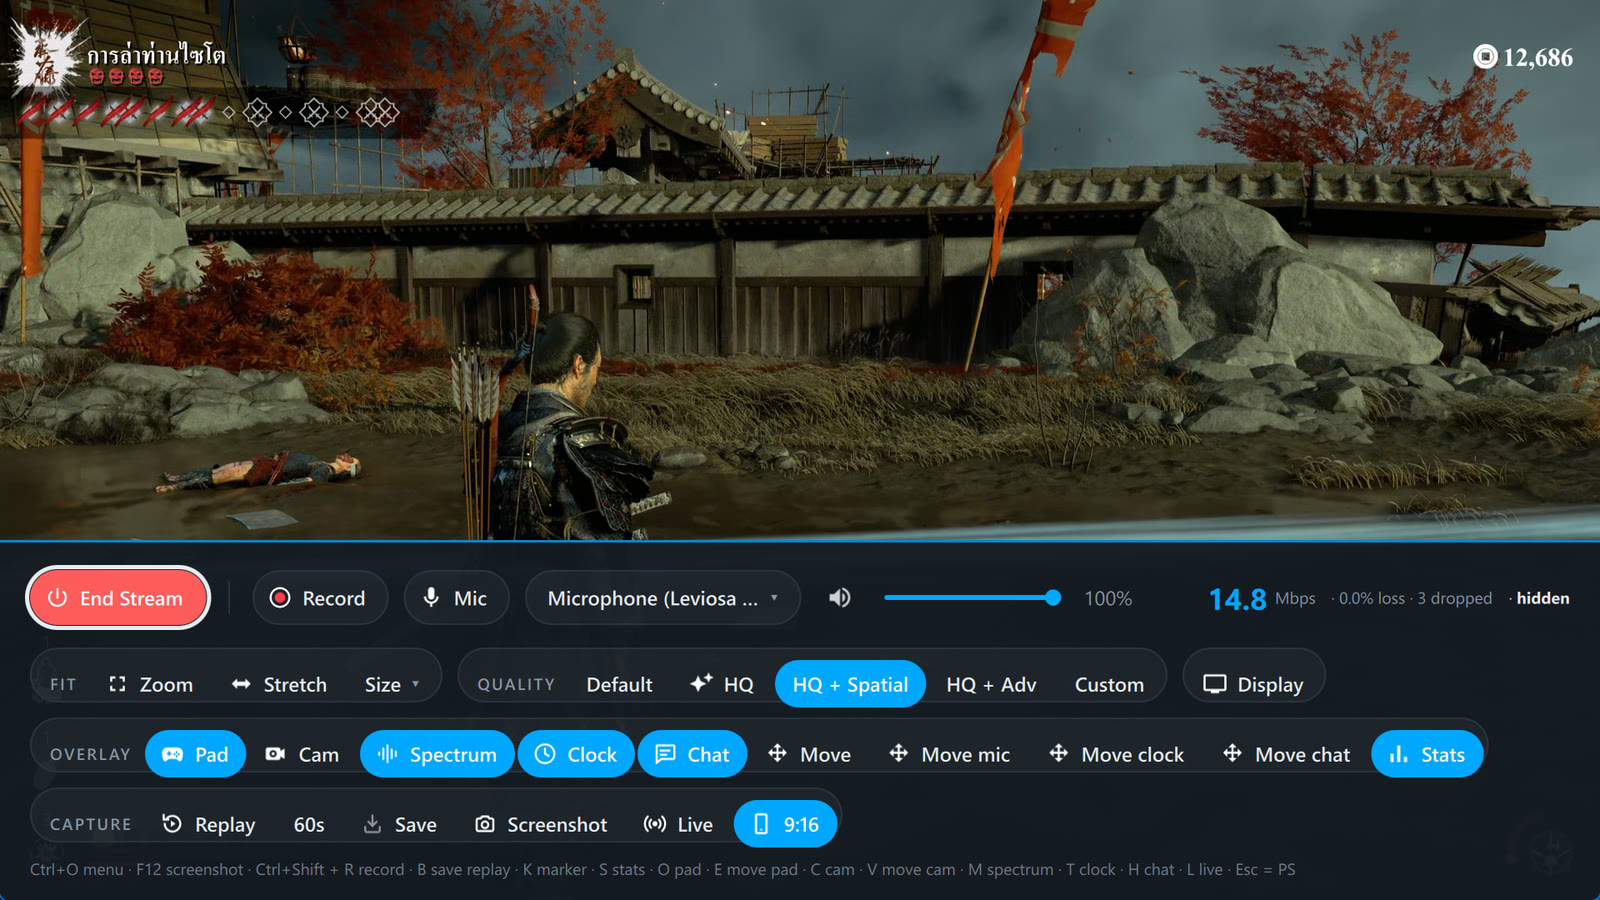
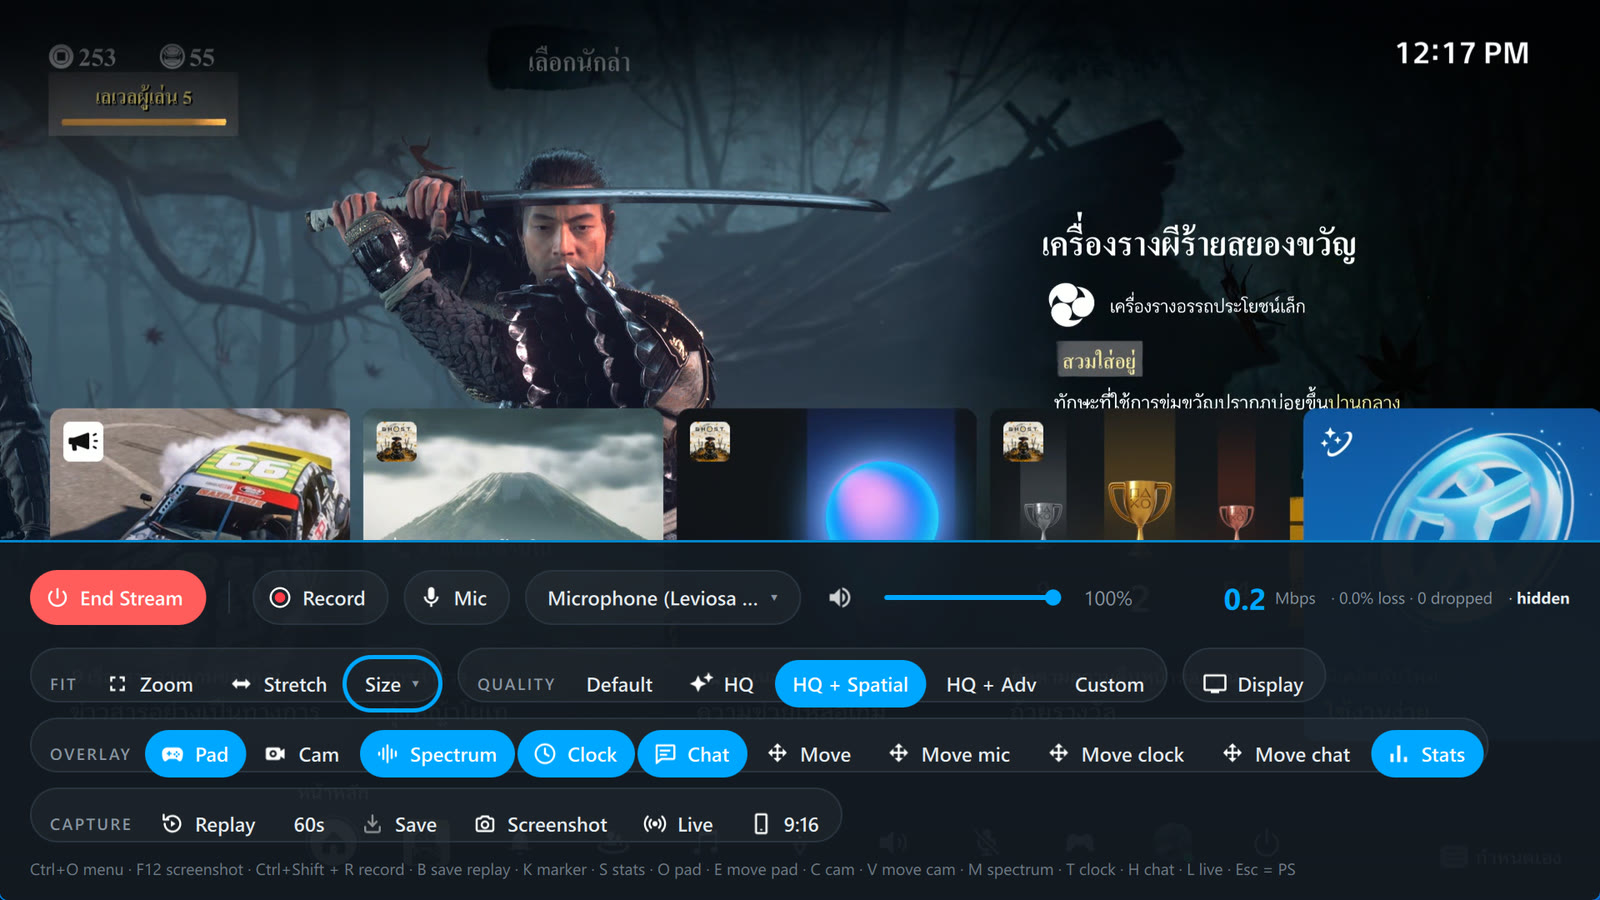
README: detailed screenshot gallery (home, About, controllers, mic, stream, picture size, 9:16, recording, settings)

diff --git a/README.th.md b/README.th.md
@@ -7,27 +7,79 @@ PS4 / PS5 Remote Play client สำหรับ Windows ที่ออกแบ
 
 ▶ **Demo stream:** [youtube.com/live/8sWkgmj81Aw](https://www.youtube.com/live/8sWkgmj81Aw)
 
-**เล่นพร้อมเปิดหน้าต่าง 9:16** — overlay บนจอเกม และข้างๆ เป็นภาพแนวตั้งสำหรับ Shorts / TikTok / Reels มีรูปมีมด้านบน + facecam (เอฟเฟกต์หน้ากากซามูไร) ด้านล่าง เลย์เอาต์ Blur fill
+![เล่นพร้อมเปิดหน้าต่าง 9:16](screenshots/stream-916.jpg)
 
-![สตรีมพร้อมหน้าต่าง 9:16](screenshots/stream-916.jpg)
+*เล่นพร้อมเปิดหน้าต่าง 9:16 — overlay บนจอเกม และข้างๆ เป็นภาพแนวตั้งสำหรับ Shorts / TikTok / Reels มีรูปด้านบน + facecam ด้านล่าง (เลย์เอาต์ Blur fill)*
+
+## ภาพหน้าจอ
+
+### หน้าแรก
 
 ![หน้าหลัก](screenshots/main.png)
 
-**ระหว่างสตรีม** — แชทไลฟ์, นาฬิกา/เวลาเล่น, mic visualizer, network stats และ overlay จอย ลากย้าย/ย่อขยายได้ทุกตัว (คลิกที่ overlay เพื่อแก้)
+- การ์ดเครื่องละใบ: รูป PS5 / PS4 ตามรุ่น, ชิปสถานะ (Ready / Standby / Remote) และปุ่ม **Play** ใหญ่
+- แถบล่าง: ซ้ายเป็นคำใบ้ปุ่มจอย ขวาเป็นชิปสถานะ — ไมค์, กล้อง, จอย, **Recordings**, **Screenshots**, Discovery และ **ⓘ About** คลิกชิปเพื่อเปิดหน้านั้น
+- ใช้จอยได้ทั้งหน้า: ✕ Play, △ ปลุกเครื่อง, □ ซ่อน, L1 ใส่ PIN, R3 เพิ่มเครื่อง, ☰ Settings
+
+| ⓘ About และเครดิต | สถานะจอย | ทดสอบไมค์ |
+|---|---|---|
+| ![About](screenshots/about.png) | ![Controllers](screenshots/controllers.png) | ![ทดสอบไมค์](screenshots/mic-test.png) |
+| เวอร์ชัน, เครดิต chiaki-ng และ Chiaki, library ทุกตัวพร้อม license และปุ่ม **Licenses** | จอยที่ต่ออยู่ ชนิดการต่อ/แบต และภาพจอยที่สว่างตามปุ่มที่กดจริง | เลือกไมค์ ปรับลดเสียงรบกวน ตัดเสียงลำโพง mic boost และ noise gate พร้อมดูผลสด |
+
+### ระหว่างสตรีม
 
 ![สตรีมพร้อม overlay](screenshots/stream-overlay.jpg)
 
-**เมนูระหว่างสตรีม** — Ctrl+O, L1+R1+L3+R3 หรือจาก tray · End Stream, อัดคลิป, ไมค์, เสียง, ขนาด/คุณภาพภาพ, overlay, Instant Replay, ภาพหน้าจอ, Go Live, 9:16
+เกมพร้อม overlay ครบทุกตัว ลากย้าย/ย่อขยายได้ทุกตัว (คลิกที่ overlay เพื่อแก้ หรือใช้ปุ่ม **Move …** ในเมนูสตรีมด้วยจอย)
+
+- **แชทไลฟ์** (ซ้าย): ข้อความ YouTube และ Twitch พร้อมสีชื่อและป้าย
+- **นาฬิกา + เวลาเล่น** (ขวาบน)
+- **mic visualizer**: บอกว่าปิดไมค์อยู่หรือกำลังพูด คลิกเพื่อ mute
+- **network stats**: bitrate, ping ตอนเชื่อมต่อ, packet loss, เฟรมที่ทิ้ง/หาย
+- **overlay จอย** (ขวาล่าง): ปุ่มสว่างและสติ๊กขยับตามที่เล่น
 
 ![เมนูสตรีม](screenshots/stream-menu.jpg)
 
-| แนวตั้ง 9:16 สำหรับ Shorts / TikTok / Reels | Settings › Go Live + แชทบนจอ |
+เมนูสตรีม (Ctrl+O, L1+R1+L3+R3 หรือจาก tray) เรียงเป็นแถว:
+
+1. **End Stream**, **Record**, เปิด/ปิดไมค์ + เลือกไมค์, เสียง และสถิติสตรีมสด
+2. **FIT** (Zoom / Stretch / **Size ▾** ขนาดหน้าต่าง 16:9 พอดี), **QUALITY** (Default → HQ + Spatial upscale) และ Display
+3. **OVERLAY**: Pad, Cam, Spectrum, Clock, Chat, Stats และปุ่ม **Move** ของแต่ละตัว
+4. **CAPTURE**: Instant Replay (เปิด/ปิด, ความยาว, Save), Screenshot, **Live** และ **9:16**
+5. รายการคีย์ลัด
+
+![ขนาดภาพ](screenshots/picture-size.jpg)
+
+**Size ▾** ตั้งหน้าต่างให้พื้นที่ภาพเป็น 720p, 900p, 1080p หรือ 1440p พอดี (16:9 ไม่มีขอบดำ pixel จริงแม้จอ scale 150%) ป้าย **STREAM** บอกขนาดที่ตรงกับความละเอียดสตรีม และซ่อนขนาดที่ใหญ่กว่าจอ
+
+### แนวตั้ง 9:16 และ Go Live
+
+| หน้าต่าง 9:16 | Settings › Go Live + แชทบนจอ |
 |---|---|
 | ![หน้าต่าง 9:16](screenshots/vertical-916.png) | ![ตั้งค่า Go Live](screenshots/go-live.png) |
+| ภาพแนวตั้งสดสำหรับ Shorts / TikTok / Reels (ในภาพเป็น Blur fill + แบนเนอร์, GIF "LIVE" และการ์ดแชท) เลือก Cam + game, Center crop หรือ Blur fill · ลาก facecam, ตำแหน่งตัด, รูปและการ์ดแชทได้ · ใส่รูป PNG/JPG/GIF จากไฟล์หรือลิงก์ (Giphy) · อัดคลิป 1080 × 1920 | เพิ่มปลายทาง YouTube, Twitch, Facebook, Kick หรือ Custom RTMP(S) ตั้ง bitrate แยกกัน ติ๊ก Vertical 9:16 ได้ทีละปลายทาง และตั้งแชทบนจอ (แหล่ง YouTube, API key, ช่อง Twitch) · key เก็บใน Windows Credential Manager |
 
-| เมนู system tray | Disconnect (ค่าเริ่มต้นไม่สั่งเครื่องหลับ) | Settings › Keys |
-|---|---|---|
-| ![Tray menu](screenshots/tray-menu.png) | ![Disconnect dialog](screenshots/disconnect.png) | ![หน้า Keys](screenshots/settings-keys.png) |
+![อัดคลิปแนวตั้ง](screenshots/recording-916.jpg)
+
+อัดคลิป 9:16 ระหว่างเล่น: ปุ่มเปลี่ยนเป็น **■ Stop** พร้อมเวลา และมีจุด REC กระพริบป้าย **9:16** ที่มุมซ้ายบนของจอเกม (บนจอเท่านั้น ไม่ติดในไฟล์)
+
+### Settings
+
+| Video | Stream |
+|---|---|
+| ![Settings › Video](screenshots/settings-video.png) | ![Settings › Stream](screenshots/settings-stream.png) |
+| ตัวถอดรหัส, ชนิดหน้าต่าง, render preset (ถึง HQ + Spatial upscale), frame delivery ฯลฯ | ความละเอียด, fps, bitrate และ codec แยก PS5 / PS4 และเล่นในบ้าน (local) / นอกบ้าน (remote) |
+
+![Settings › Keys](screenshots/settings-keys.png)
+
+Settings › Keys: ผูกปุ่ม PlayStation ทุกปุ่มกับคีย์บอร์ด จัดเป็นการ์ดตามหมวด (ปุ่มหน้า, D-pad, ไหล่/ไก, ระบบ, สติ๊ก) ใช้จอยเลื่อนได้ทั้งหน้า · sidebar จัดหน้าเป็น Basics, Advanced, Games (game presets) และ Broadcast (Go Live)
+
+### เมนู tray และ Disconnect
+
+| เมนู system tray | Disconnect |
+|---|---|
+| ![Tray menu](screenshots/tray-menu.png) | ![Disconnect dialog](screenshots/disconnect.png) |
+| เปิดเมนูสตรีมหรือ Settings, ตั้งขนาดภาพ, เปิดหน้าต่าง 9:16, อัดคลิป, เปิด/ปิด overlay, เลือกเอฟเฟกต์/พื้นหลัง facecam, เปลี่ยนไมค์, record preset, Instant Replay, ภาพหน้าจอ, Go Live และ always on top ได้โดยไม่ต้องแตะหน้าต่างเกม | ตอนจบสตรีมจะถามว่าจะให้เครื่องเปิดอยู่ไหม ปุ่มเริ่มต้นคือ **Disconnect** กดจอยพลาดก็ไม่ทำให้ PS5 หลับ |
 
 ## ดาวน์โหลด
 

diff --git a/README.md b/README.md
@@ -7,27 +7,79 @@ It is built on [chiaki-ng](https://github.com/streetpea/chiaki-ng) by the BudToZ
 
 ▶ **Demo stream:** [youtube.com/live/8sWkgmj81Aw](https://www.youtube.com/live/8sWkgmj81Aw).
 
-**Playing with the vertical 9:16 window open:** overlays on the game screen, and next to it the vertical picture for Shorts / TikTok / Reels with a meme image on top and the facecam (with the samurai face effect) below, in the Blur fill layout.
+![Playing with the vertical 9:16 window open](screenshots/stream-916.jpg)
 
-![Stream with the 9:16 window](screenshots/stream-916.jpg)
+*Playing with the 9:16 window open: overlays on the game screen, and next to it the vertical picture for Shorts / TikTok / Reels with an image on top and the facecam below (Blur fill layout).*
+
+## Screenshots
+
+### Home screen
 
 ![Home screen](screenshots/main.png)
 
-**While streaming:** live chat, clock and play time, mic visualizer, network stats and controller overlays. You can drag and resize each one; click an overlay to edit it.
+- One card per console: PS5 / PS4 art by model, a status chip (Ready / Standby / Remote) and a big **Play** button.
+- The bottom bar has controller hints on the left and status chips on the right: microphone, camera, controller, **Recordings**, **Screenshots**, Discovery and **ⓘ About**. Click a chip to open its page.
+- Everything works with a controller: ✕ Play, △ wake up, □ hide, L1 PIN, R3 add console, ☰ Settings.
+
+| ⓘ About and credits | Controller status | Microphone test |
+|---|---|---|
+| ![About](screenshots/about.png) | ![Controllers](screenshots/controllers.png) | ![Microphone test](screenshots/mic-test.png) |
+| Version, credits for chiaki-ng and Chiaki, every bundled library with its license, and a **Licenses** button. | Connected controllers, connection type and battery, plus a live preview that lights up as you press buttons. | Pick the microphone and set noise reduction, speaker echo removal, mic boost and noise gate while you hear the result. |
+
+### While streaming
 
 ![Stream with overlays](screenshots/stream-overlay.jpg)
 
-**Stream menu** (Ctrl+O, L1+R1+L3+R3, or the tray): End Stream, recording, microphone, volume, picture size and quality, overlays, Instant Replay, screenshots, Go Live and 9:16.
+The game with every overlay turned on. Each one can be dragged and resized (click it to edit, or use **Move …** in the stream menu with a controller):
+
+- **Live chat** (left): YouTube and Twitch messages, with colored names and badges.
+- **Clock and play time** (top right).
+- **Mic visualizer**: shows that you are muted or speaking; click it to mute.
+- **Network stats**: bitrate, ping at connect, packet loss and dropped/lost frames.
+- **Controller overlay** (bottom right): buttons light up and sticks move as you play.
 
 ![Stream menu](screenshots/stream-menu.jpg)
 
-| Vertical 9:16 for Shorts / TikTok / Reels | Settings › Go Live and chat on screen |
+The stream menu (Ctrl+O, L1+R1+L3+R3, or the tray), in rows:
+
+1. **End Stream**, **Record**, microphone on/off and device, volume, and live stream stats.
+2. **FIT** (Zoom / Stretch / **Size ▾** for exact 16:9 window sizes), **QUALITY** (Default → HQ + Spatial upscaling) and Display settings.
+3. **OVERLAY**: Pad, Cam, Spectrum, Clock, Chat, Stats, and a **Move** button for each overlay.
+4. **CAPTURE**: Instant Replay (on/off, length, Save), Screenshot, **Live** and **9:16**.
+5. The keyboard shortcut list.
+
+![Picture size](screenshots/picture-size.jpg)
+
+**Size ▾** sets the window so the video area is exactly 720p, 900p, 1080p or 1440p (16:9, no black bars, real pixels even at 150 % display scaling). The **STREAM** tag marks the size that matches the stream resolution, and sizes larger than your screen are hidden.
+
+### Vertical 9:16 and Go Live
+
+| Vertical 9:16 window | Settings › Go Live and chat on screen |
 |---|---|
 | ![9:16 window](screenshots/vertical-916.png) | ![Go Live settings](screenshots/go-live.png) |
+| A live vertical picture for Shorts / TikTok / Reels, here in Blur fill with a banner image, an animated "LIVE" GIF and the chat card. Choose Cam + game, Center crop or Blur fill; drag the facecam, the crop, your images and the chat card; add PNG/JPG/GIF images from a file or a link (Giphy); and record 1080 × 1920 clips. | Add YouTube, Twitch, Facebook, Kick or custom RTMP(S) destinations with their own bitrate, mark any of them Vertical 9:16, and set up the on-screen chat (YouTube source, API key, Twitch channel). Keys stay in Windows Credential Manager. |
 
-| System tray menu | Disconnect (does not sleep the console by default) | Settings › Keys |
-|---|---|---|
-| ![Tray menu](screenshots/tray-menu.png) | ![Disconnect dialog](screenshots/disconnect.png) | ![Keys page](screenshots/settings-keys.png) |
+![Recording a vertical clip](screenshots/recording-916.jpg)
+
+Recording a 9:16 clip while playing: the button turns into **■ Stop** with the elapsed time, and a blinking REC dot labelled **9:16** appears at the top left of the game screen (on screen only, not in the file).
+
+### Settings
+
+| Video | Stream |
+|---|---|
+| ![Settings › Video](screenshots/settings-video.png) | ![Settings › Stream](screenshots/settings-stream.png) |
+| Decoder, window type, render preset (up to HQ + Spatial upscaling), frame delivery and more. | Resolution, frame rate, bitrate and codec, separately for PS5 / PS4 and for home (local) and remote play. |
+
+![Settings › Keys](screenshots/settings-keys.png)
+
+Settings › Keys: every PlayStation button mapped to a keyboard key, grouped into cards (face buttons, D-pad, shoulders and triggers, system, sticks), all reachable with a controller. The sidebar groups the pages into Basics, Advanced, Games (game presets) and Broadcast (Go Live).
+
+### System tray and disconnect
+
+| System tray menu | Disconnect |
+|---|---|
+| ![Tray menu](screenshots/tray-menu.png) | ![Disconnect dialog](screenshots/disconnect.png) |
+| Open the stream menu or Settings, set the picture size, open the 9:16 window, record, toggle overlays, choose the facecam effect and background, switch the microphone, record presets, Instant Replay, screenshots, Go Live and always on top, all without touching the game window. | Ending a stream asks whether to keep the console on. **Disconnect** is the default, so a stray button press can't put your PS5 to sleep. |
 
 ## Download
 
